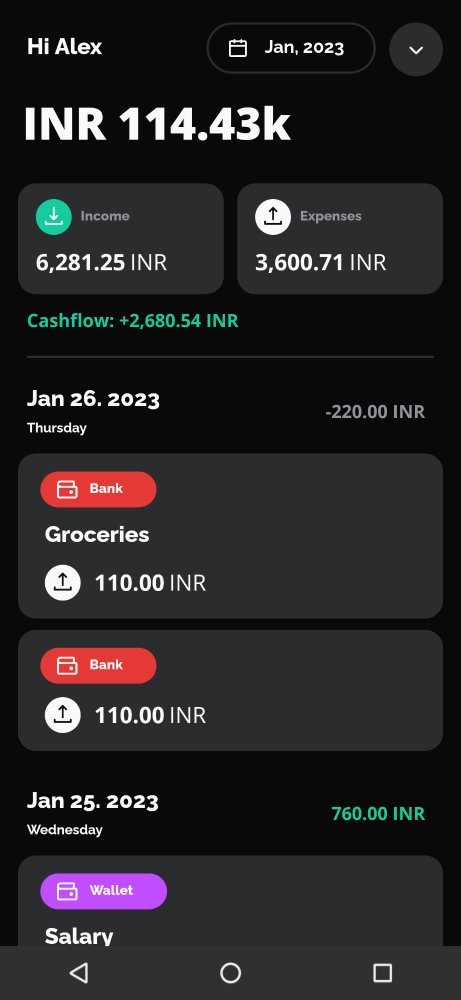
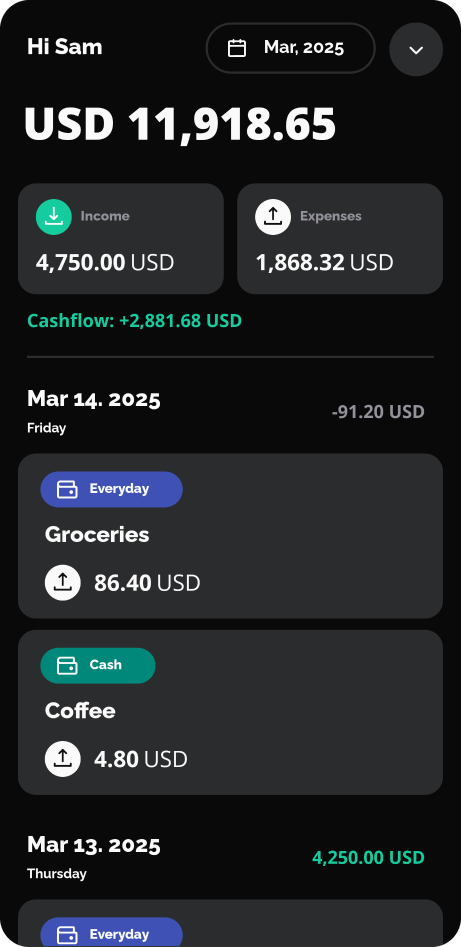
README: rounded screenshots without navigation bar, 7-screen gallery

diff --git a/README.md b/README.md
@@ -15,11 +15,20 @@
   <a href="LICENSE"><img alt="License: GPL v3" src="https://img.shields.io/badge/License-GPLv3-blue.svg" /></a>
 </p>
 
-| Home (light) | Home (dark) | Accounts | Support |
-|:---:|:---:|:---:|:---:|
-| ![Home light](docs/screenshots/home-light.png) | ![Home dark](docs/screenshots/home-dark.png) | ![Accounts](docs/screenshots/accounts-light.png) | ![Support](docs/screenshots/support-light.png) |
+<p align="center">
+  <img src="docs/screenshots/home-light.png" width="23%" alt="Home screen with balance, income, expenses and recent transactions" />
+  <img src="docs/screenshots/accounts-light.png" width="23%" alt="Accounts with balances and monthly income and expenses" />
+  <img src="docs/screenshots/add-menu-light.png" width="23%" alt="Add menu: income, expense, transfer and planned payment" />
+  <img src="docs/screenshots/period-picker-light.png" width="23%" alt="Period picker: month, custom range, last N weeks or all time" />
+</p>
+<p align="center">
+  <img src="docs/screenshots/more-menu-light.png" width="23%" alt="Quick access menu with search, savings goal and shortcuts" />
+  <img src="docs/screenshots/home-dark.png" width="23%" alt="Home screen in dark theme" />
+  <img src="docs/screenshots/support-light.png" width="23%" alt="Support the developer section in Settings" />
+</p>
 
-<sub>Screenshots are rendered from the app's Compose previews with sample data (Paparazzi), not from a device.</sub>
+<sub>Rendered from the app's Compose previews with made-up sample data (Paparazzi), not from a real device or account.
+Regenerate with `./gradlew recordPaparazziDebug && python3 scripts/readme_screenshots.py`.</sub>
 
 ## About
 
